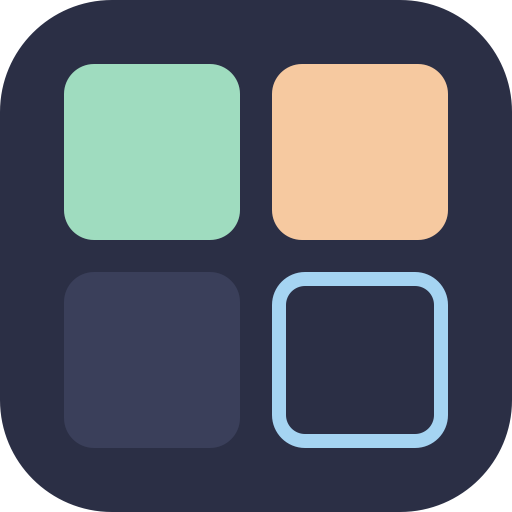
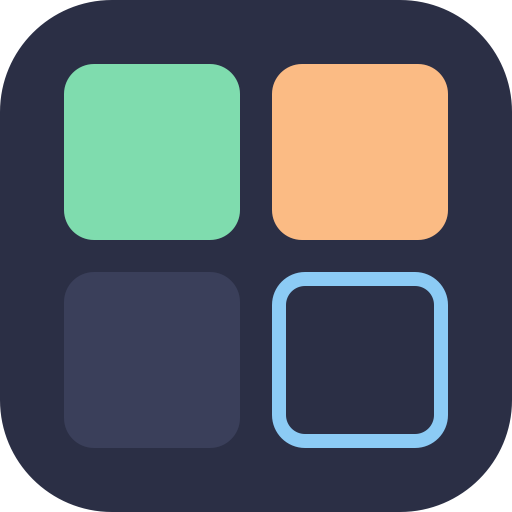
Noite pastel mais viva: menta, pêssego e azul-céu um pouco mais saturados

Changed region(s): [[0.5312, 0.125, 0.875, 0.4688], [0.125, 0.125, 0.4688, 0.4688], [0.5312, 0.5312, 0.875, 0.875]]

diff --git a/css/estilo.css b/css/estilo.css
@@ -11,23 +11,23 @@
   --texto-suave: #b4b7d0;
   --texto-apagado: #7d82a3;
 
-  --certa: #9fdcbf;          /* menta: letra no lugar certo */
+  --certa: #7fdcae;          /* menta: letra no lugar certo */
   --certa-texto: #1f3b30;    /* texto escuro sobre a menta */
-  --certa-letra: #a9e3c7;    /* menta para texto sobre o fundo escuro */
-  --certa-fundo: rgba(159, 220, 191, .16);
-  --certa-brilho: rgba(159, 220, 191, .18);
-  --lugar: #f6c9a0;          /* pêssego: letra em outro lugar */
+  --certa-letra: #8fe3ba;    /* menta para texto sobre o fundo escuro */
+  --certa-fundo: rgba(127, 220, 174, .18);
+  --certa-brilho: rgba(127, 220, 174, .3);
+  --lugar: #fbbb84;          /* pêssego: letra em outro lugar */
   --lugar-texto: #4a3018;
-  --lugar-letra: #f8d2b0;
-  --lugar-fundo: rgba(246, 201, 160, .14);
-  --lugar-brilho: rgba(246, 201, 160, .16);
+  --lugar-letra: #fcc79a;
+  --lugar-fundo: rgba(251, 187, 132, .16);
+  --lugar-brilho: rgba(251, 187, 132, .28);
   --errada: #3a3f5a;
-  --perdeu: #f2a7a7;
+  --perdeu: #f59a9a;
 
-  --neon: #a5d4f2;           /* azul-céu: cursor, dica e placar */
-  --neon-brilho: rgba(165, 212, 242, .18);
-  --ouro: #f6c9a0;           /* destaque de botões e avisos */
-  --ouro-fundo: #d9a77c;
+  --neon: #8ccbf5;           /* azul-céu: cursor, dica e placar */
+  --neon-brilho: rgba(140, 203, 245, .26);
+  --ouro: #fbbb84;           /* destaque de botões e avisos */
+  --ouro-fundo: #d9955e;
 
   --peca: 56px;
   --vao: 6px;

diff --git a/sw.js b/sw.js
@@ -1,5 +1,5 @@
 // Deixa o jogo funcionando sem internet. Ao mudar a lista de ARQUIVOS, aumente a VERSAO.
-const VERSAO = "v17";
+const VERSAO = "v18";
 const CACHE = `decifra-${VERSAO}`;
 const ARQUIVOS = [
   "./",
